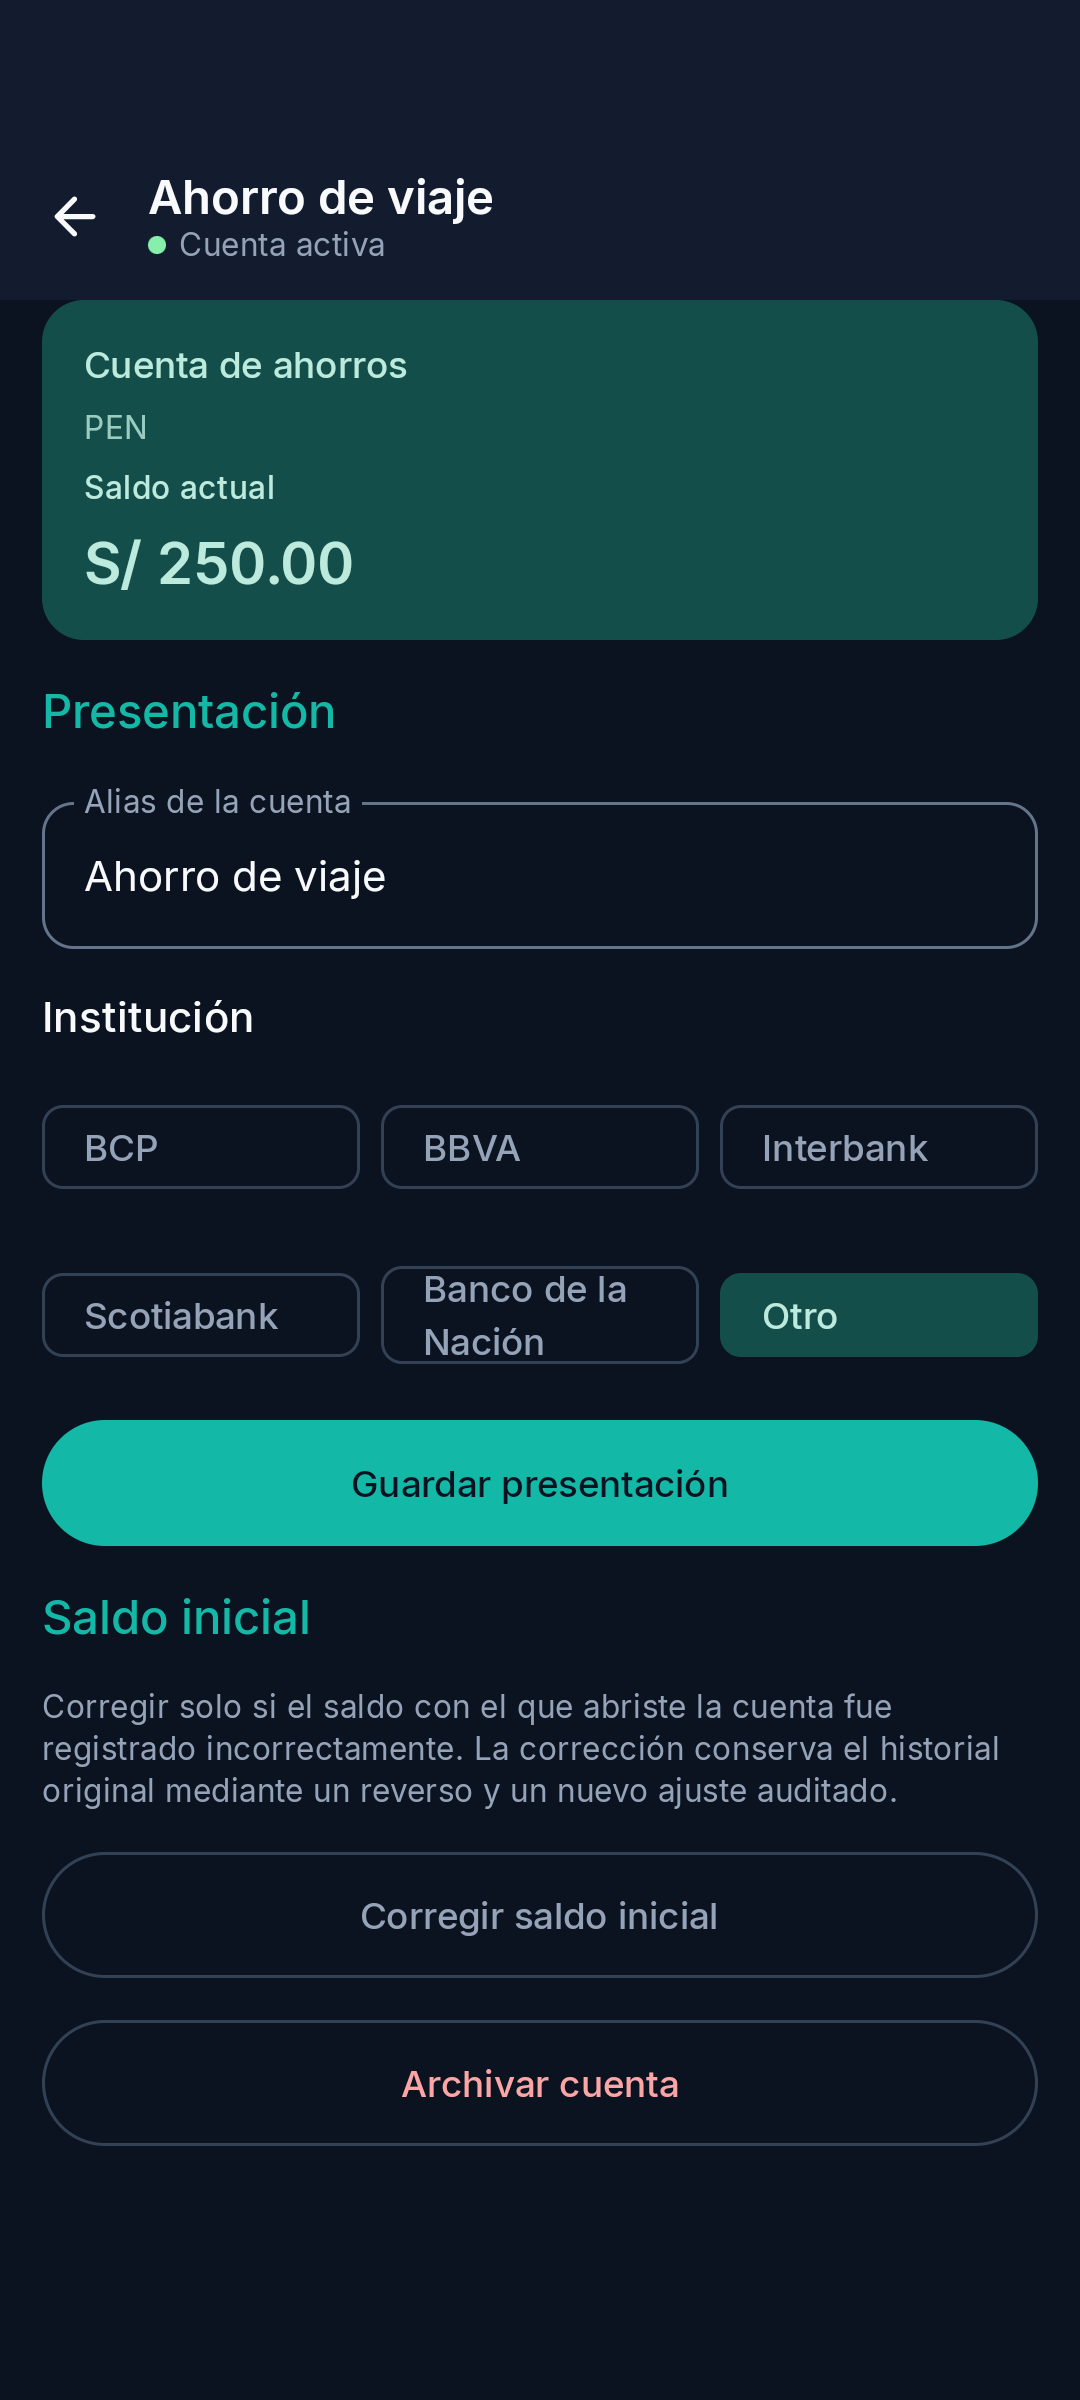
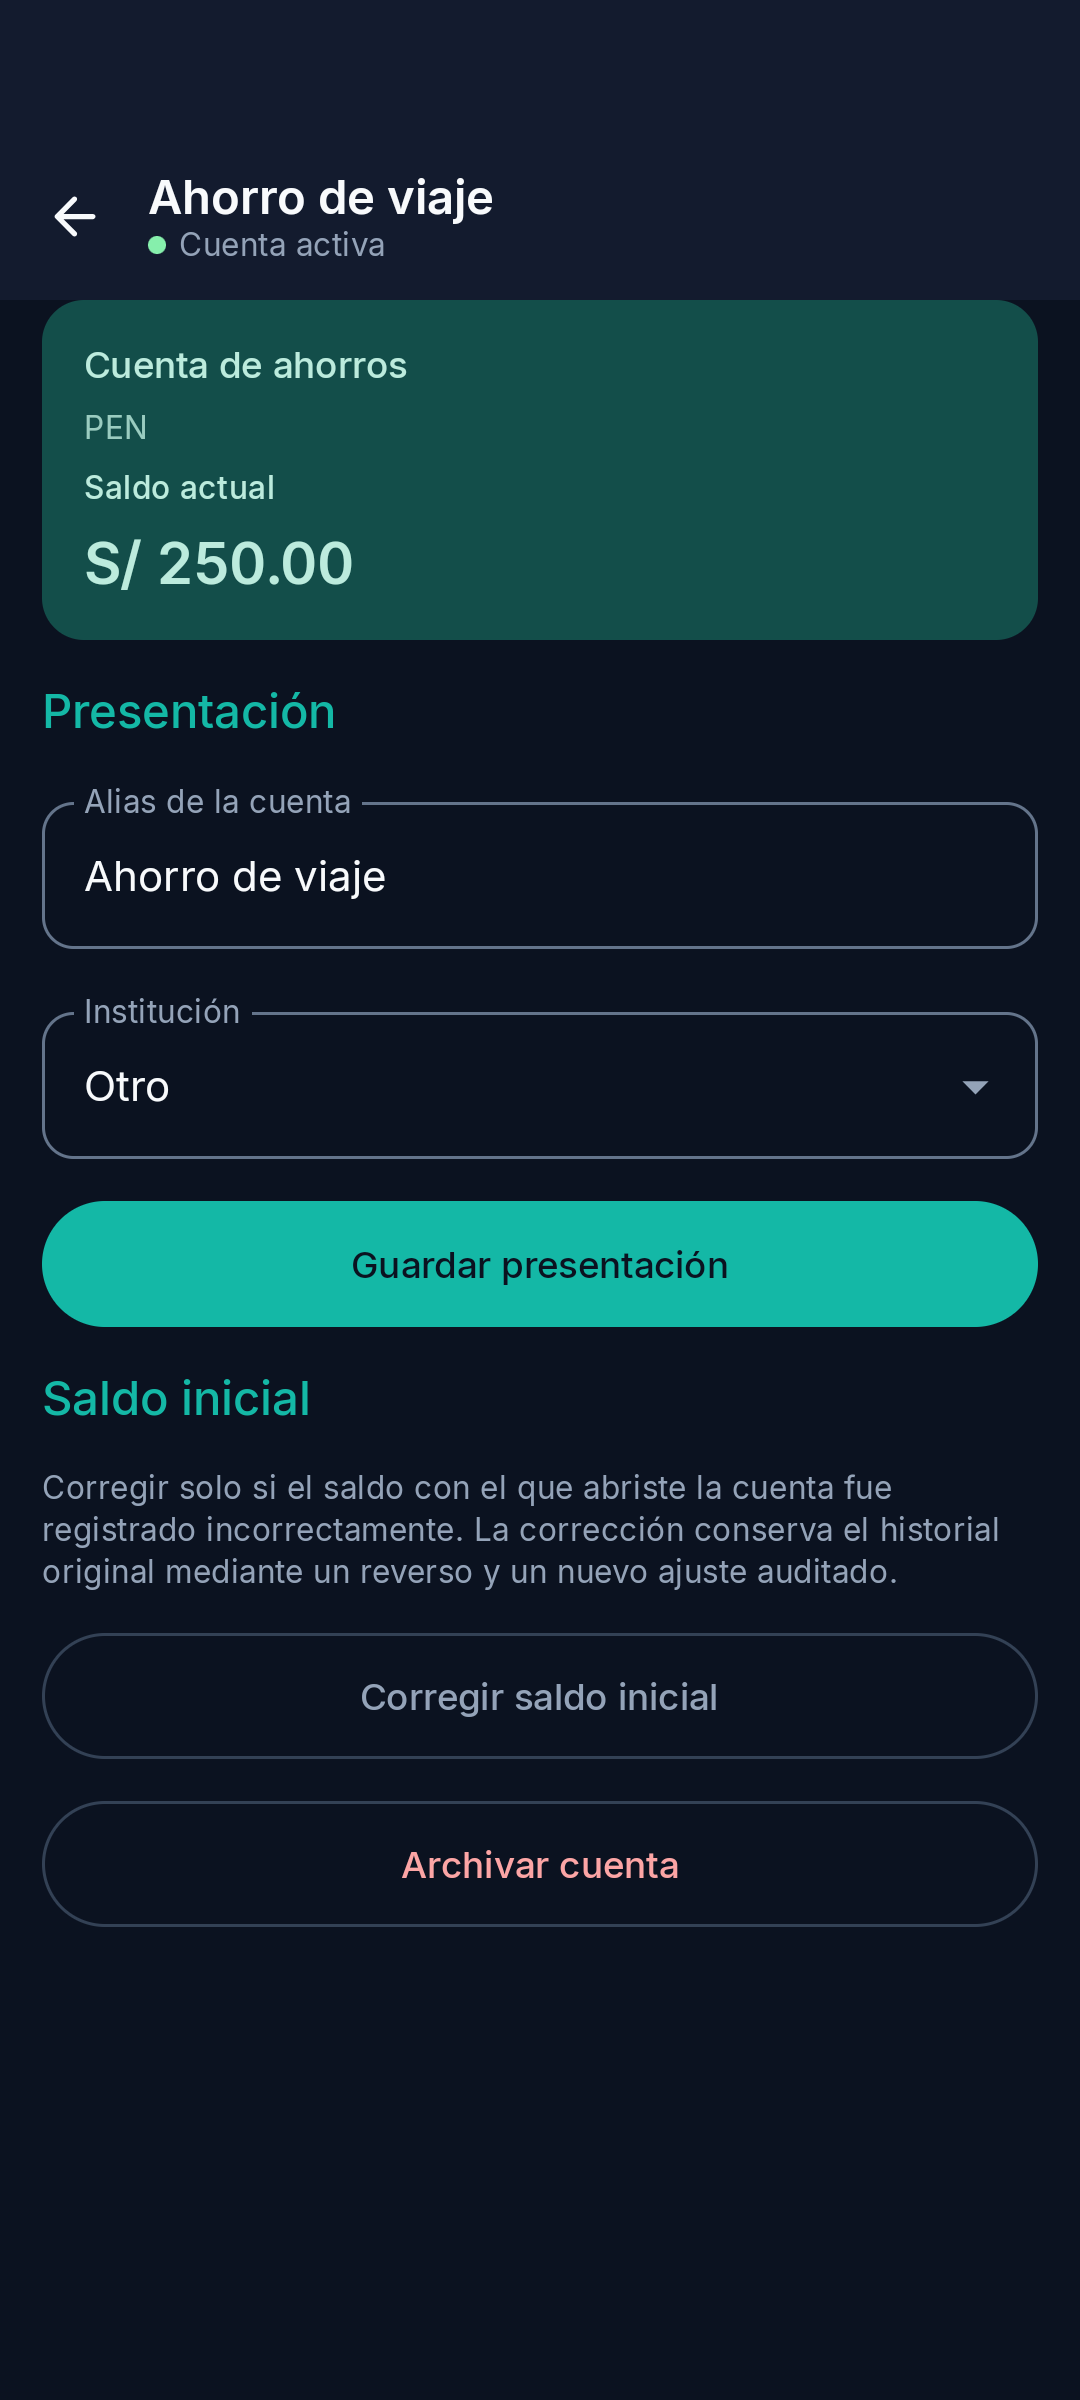
feat(accounts): use dropdown for institution selection

diff --git a/app/src/main/java/com/kipu/app/feature/accounts/presentation/detail/AccountDetailScreen.kt b/app/src/main/java/com/kipu/app/feature/accounts/presentation/detail/AccountDetailScreen.kt
@@ -67,6 +67,9 @@ import androidx.compose.material3.CardDefaults
 import androidx.compose.material3.CircularProgressIndicator
 import androidx.compose.material3.DropdownMenu
 import androidx.compose.material3.DropdownMenuItem
+import androidx.compose.material3.ExposedDropdownMenuAnchorType
+import androidx.compose.material3.ExposedDropdownMenuBox
+import androidx.compose.material3.ExposedDropdownMenuDefaults
 import androidx.compose.material3.ExperimentalMaterial3Api
 import androidx.compose.material3.FilterChip
 import androidx.compose.material3.FilterChipDefaults
@@ -852,6 +855,7 @@ fun AccountDetailContent(
     var selectedPreset by remember(instrumentKey, account?.type, account?.preset) {
         mutableStateOf(account?.let { AccountPreset.normalizedFor(it.type, it.preset) })
     }
+    var isInstitutionMenuExpanded by remember(instrumentKey, account?.type) { mutableStateOf(false) }
     var showArchiveConfirmation by remember(instrumentKey) { mutableStateOf(false) }
     var showReactivateConfirmation by remember(instrumentKey) { mutableStateOf(false) }
     var showOpeningCorrection by remember(instrumentKey) { mutableStateOf(false) }
@@ -1096,18 +1100,37 @@ fun AccountDetailContent(
                                 }
                             }
                         } else if (selectablePresets.isNotEmpty()) {
-                            Text("Institución", style = MaterialTheme.typography.titleSmall)
-                            selectablePresets.chunked(3).forEach { presetRow ->
-                                Row(
-                                    modifier = Modifier.fillMaxWidth().testTag("account_preset_selector"),
-                                    horizontalArrangement = Arrangement.spacedBy(8.dp),
+                            ExposedDropdownMenuBox(
+                                expanded = isInstitutionMenuExpanded,
+                                onExpandedChange = { isInstitutionMenuExpanded = it },
+                                modifier = Modifier.fillMaxWidth().testTag("account_preset_selector"),
+                            ) {
+                                OutlinedTextField(
+                                    value = selectablePresets.firstOrNull { it == selectedPreset }?.defaultName.orEmpty(),
+                                    onValueChange = {},
+                                    readOnly = true,
+                                    label = { Text("Institución") },
+                                    trailingIcon = {
+                                        ExposedDropdownMenuDefaults.TrailingIcon(expanded = isInstitutionMenuExpanded)
+                                    },
+                                    shape = MaterialTheme.shapes.medium,
+                                    modifier = Modifier
+                                        .fillMaxWidth()
+                                        .menuAnchor(ExposedDropdownMenuAnchorType.PrimaryNotEditable, enabled = true)
+                                        .testTag("account_institution_selector"),
+                                )
+                                ExposedDropdownMenu(
+                                    expanded = isInstitutionMenuExpanded,
+                                    onDismissRequest = { isInstitutionMenuExpanded = false },
                                 ) {
-                                    presetRow.forEach { preset ->
-                                        FilterChip(
-                                            selected = selectedPreset == preset,
-                                            onClick = { selectedPreset = preset },
-                                            label = { Text(preset.defaultName) },
-                                            modifier = Modifier.weight(1f).testTag("account_preset_${preset.name.lowercase()}"),
+                                    selectablePresets.forEach { preset ->
+                                        DropdownMenuItem(
+                                            text = { Text(preset.defaultName) },
+                                            onClick = {
+                                                selectedPreset = preset
+                                                isInstitutionMenuExpanded = false
+                                            },
+                                            modifier = Modifier.testTag("account_preset_${preset.name.lowercase()}"),
                                         )
                                     }
                                 }

diff --git a/app/src/androidTest/java/com/kipu/app/feature/accounts/presentation/detail/AccountPresetScreenshotTest.kt b/app/src/androidTest/java/com/kipu/app/feature/accounts/presentation/detail/AccountPresetScreenshotTest.kt
@@ -6,6 +6,7 @@ import androidx.compose.ui.test.captureToImage
 import androidx.compose.ui.test.junit4.createComposeRule
 import androidx.compose.ui.test.onNodeWithTag
 import androidx.compose.ui.test.onRoot
+import androidx.compose.ui.test.performClick
 import androidx.compose.ui.test.performScrollTo
 import com.kipu.app.core.finance.domain.model.AccountId
 import com.kipu.app.core.finance.domain.model.Currency
@@ -44,7 +45,35 @@ class AccountPresetScreenshotTest {
         capture(type = AccountType.SAVINGS, preset = AccountPreset.YAPE, dark = true, name = "savings-detail-dark")
     }
 
-    private fun capture(type: AccountType, preset: AccountPreset, dark: Boolean, name: String) {
+    @Test
+    fun capturesSavingsInstitutionOptionsInLightTheme() {
+        capture(
+            type = AccountType.SAVINGS,
+            preset = AccountPreset.YAPE,
+            dark = false,
+            name = "savings-options-light",
+            openInstitutionMenu = true,
+        )
+    }
+
+    @Test
+    fun capturesSavingsInstitutionOptionsInDarkTheme() {
+        capture(
+            type = AccountType.SAVINGS,
+            preset = AccountPreset.YAPE,
+            dark = true,
+            name = "savings-options-dark",
+            openInstitutionMenu = true,
+        )
+    }
+
+    private fun capture(
+        type: AccountType,
+        preset: AccountPreset,
+        dark: Boolean,
+        name: String,
+        openInstitutionMenu: Boolean = false,
+    ) {
         compose.setContent {
             KipuTheme(darkTheme = dark) {
                 AccountDetailContent(
@@ -62,8 +91,9 @@ class AccountPresetScreenshotTest {
             }
         }
 
-        val targetTag = if (type == AccountType.CASH) "cash_presentation" else "account_preset_banco_nacion"
+        val targetTag = if (type == AccountType.CASH) "cash_presentation" else "account_institution_selector"
         compose.onNodeWithTag(targetTag).performScrollTo()
+        if (openInstitutionMenu) compose.onNodeWithTag(targetTag).performClick()
         compose.waitForIdle()
 
         val context = androidx.test.platform.app.InstrumentationRegistry.getInstrumentation().targetContext

diff --git a/app/src/androidTest/java/com/kipu/app/feature/accounts/presentation/detail/AccountDetailScreenTest.kt b/app/src/androidTest/java/com/kipu/app/feature/accounts/presentation/detail/AccountDetailScreenTest.kt
@@ -44,7 +44,8 @@ class AccountDetailScreenTest {
         )
 
         compose.onNodeWithTag("account_alias").performScrollTo().performTextReplacement("Ahorro de viaje")
-        compose.onNodeWithTag("account_preset_bbva").performScrollTo().performClick()
+        compose.onNodeWithTag("account_institution_selector").performScrollTo().performClick()
+        compose.onNodeWithTag("account_preset_bbva").performClick()
         compose.onNodeWithTag("save_account_presentation").performScrollTo().performClick()
 
         compose.runOnIdle {
@@ -74,11 +75,27 @@ class AccountDetailScreenTest {
     fun savingsAccountShowsOnlyBankPresets() {
         setScreen(account())
 
-        compose.onNodeWithTag("account_preset_bcp").performScrollTo().assertIsDisplayed()
+        compose.onNodeWithTag("account_institution_selector").performScrollTo().performClick()
+        compose.onNodeWithTag("account_preset_bcp").assertIsDisplayed()
         compose.onNodeWithTag("account_preset_banco_nacion").assertIsDisplayed()
         compose.onAllNodesWithTag("account_preset_cash").assertCountEquals(0)
         compose.onAllNodesWithTag("account_preset_yape").assertCountEquals(0)
         compose.onAllNodesWithTag("account_preset_plin").assertCountEquals(0)
+    }
+
+    @Test
+    fun legacySavingsWalletPresetDisplaysAndSavesAsOther() {
+        var savedPreset: AccountPreset? = null
+        setScreen(
+            account().copy(preset = AccountPreset.YAPE),
+            onSaveAppearance = { _, preset -> savedPreset = preset },
+        )
+
+        compose.onNodeWithTag("account_institution_selector").assertIsDisplayed()
+        compose.onNodeWithText("Otro").assertIsDisplayed()
+        compose.onNodeWithTag("save_account_presentation").performScrollTo().performClick()
+
+        compose.runOnIdle { assertEquals(AccountPreset.GENERIC, savedPreset) }
     }
 
     @Test

diff --git a/docs/ux-ui/mockups/states/account-presentation/README.md b/docs/ux-ui/mockups/states/account-presentation/README.md
@@ -10,6 +10,14 @@ These screenshots are generated by `AccountPresetScreenshotTest` on the `Pixel_8
 
 ## Savings account
 
+The selector remains collapsed in the detail view and expands to the supported bank presets when tapped.
+
 | Light | Dark |
 | --- | --- |
 | ![Savings account, light theme](savings-detail-light.png) | ![Savings account, dark theme](savings-detail-dark.png) |
+
+### Institution dropdown
+
+| Light | Dark |
+| --- | --- |
+| ![Savings institution dropdown, light theme](savings-options-light.png) | ![Savings institution dropdown, dark theme](savings-options-dark.png) |
